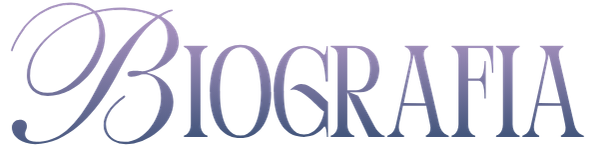
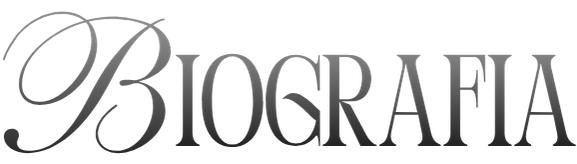
atualizado

Changed region(s): [[0.0, 0.0, 0.9983, 0.9627]]

diff --git a/lading-page/src/components/works.jsx b/lading-page/src/components/works.jsx
@@ -4,34 +4,59 @@ import Orelha002 from "../components/media/imgs/piercing_orelha002.png";
 
 export default function works() {
   return (
-    <div className="contain_works">
-      <div className="photos">
-        <div className="photos_inline">
-            <img src={Orelha001} alt="" />
+    <div className="works">
+      <div className="contain_works">
+        <h1>My Works</h1>
+        <div className="container_photos_inline">
+          <div className="container_photo">
+            <div className="photo">
+              <img src={Orelha001} alt="" />
+            </div>
+          </div>
+
+          <div className="container_photo">
+            <div className="photo">
+              <img src={Orelha002} alt="" />
+            </div>
+          </div>
+
+          <div className="container_photo">
+            <div className="photo"></div>
+          </div>
         </div>
-        <div className="photos_inline">
-            <img src={Orelha002} alt="" />
+
+         <div className="container_photos_inline">
+          <div className="container_photo">
+            <div className="photo"></div>
+          </div>
+
+          <div className="container_photo">
+            <div className="photo"></div>
+          </div>
+
+          <div className="container_photo">
+            <div className="photo"></div>
+          </div>
         </div>
-        <div className="photos_inline">
-            <img src={Orelha002} alt="" />
+
+         <div className="container_photos_inline">
+          <div className="container_photo">
+            <div className="photo"></div>
+          </div>
+
+          <div className="container_photo">
+            <div className="photo"></div>
+          </div>
+
+          <div className="container_photo">
+            <div className="photo"></div>
+          </div>
         </div>
+
+        
+
+
       </div>
-      <div className="photos">
-        <div className="photos_inline"></div>
-        <div className="photos_inline"></div>
-        <div className="photos_inline"></div>
-      </div>
-      <div className="photos">
-        <div className="photos_inline"></div>
-        <div className="photos_inline"></div>
-        <div className="photos_inline"></div>
-      </div>
-      <div className="photos">
-        <div className="photos_inline"></div>
-        <div className="photos_inline"></div>
-        <div className="photos_inline"></div>
-      </div>
-      <div className="description_photos"></div>
     </div>
   );
 }

diff --git a/lading-page/src/pages/styles/global.css b/lading-page/src/pages/styles/global.css
@@ -5,14 +5,18 @@
 }
 
 :root{
-    --color-background: #dab8a6;
-    --color-font: #183150;
+    --color-background: #e0dcd1;
+    --color-font: #1A1A1A;
+    --color-cards: #F2F2F2;
+    --color-elements: #BC8A5F;
+    --color-shadow: #D4AF37;
 }
 
 body{
     width: 100vw;
     height: auto;
-    background-color: #dab8a6;
+    background-color: var(--color-background);
+    position: static;
 }
 
 p{
@@ -81,10 +85,11 @@ p{
     font-family: 'lora', Arial, Helvetica, sans-serif;
     color: var(--color-font);
     width: 80%;
-    background-color: rgba(255, 255, 255, 0.184);
+    background-color: var(--color-cards);
     padding: 20px 10px;
     border-radius: 8px;
-    border-left: 6px solid var(--color-font);
+    box-shadow: 1px 1px 5px var(--color-shadow);
+    border-left: 6px solid var(--color-elements);
 
     display: flex;
     flex-flow: column nowrap;
@@ -117,35 +122,65 @@ p{
 
 /* Works */
 
-.contain_works{
+.works{
     margin: auto;
-    max-width: 95%;
+    max-width: 90%;
     height: 100vh;
-    padding: 20px 0px;
+
+    display: flex;
+    align-items: center;
+    
+}
+.contain_works{
+    width: 100%;
+    height: 80%;
+    background-color: rgba(255, 255, 255, 0.507);
+    padding: 20px 10px; 
+    border-radius: 12px 12px 0px 0px; 
+    box-shadow: 2px 2px 8px var(--color-elements); 
 
     display: flex;
     flex-flow: column nowrap;
+
+    h1{
+        font-size: 2.2em;
+        margin-bottom: 20px;
+        color: var(--color-font);
+    }
     
 }
 
-.photos{
+.container_photos_inline{
     width: 100%;
-    height: 20%;
+    height: 25%;
 
     display: flex;
     flex-flow: row nowrap;
     justify-content: space-between;
     gap: 5px;
+    margin-bottom: 10px;
+    
 }
 
-.photos_inline{
+.container_photo{
     width: 33%;
     height: 100%;
-    
+    background-color: white;
+    border: 1px solid rgba(137, 137, 137, 0.558);
+    border-radius: 8px 0px;
+    box-shadow: 2px 2px 5px rgba(0, 0, 0, 0.185);
 
+}
+
+.photo{
+    width: 100%;
+    height: 80%;
+    background-color: grey;
+    border-radius: 8px 0px;
+    
 }
 img{
     max-width: 100%;
     min-height: 100%;
-    border-radius: 8px;
+    border-radius: 8px 0px 3px 3px;
 }
